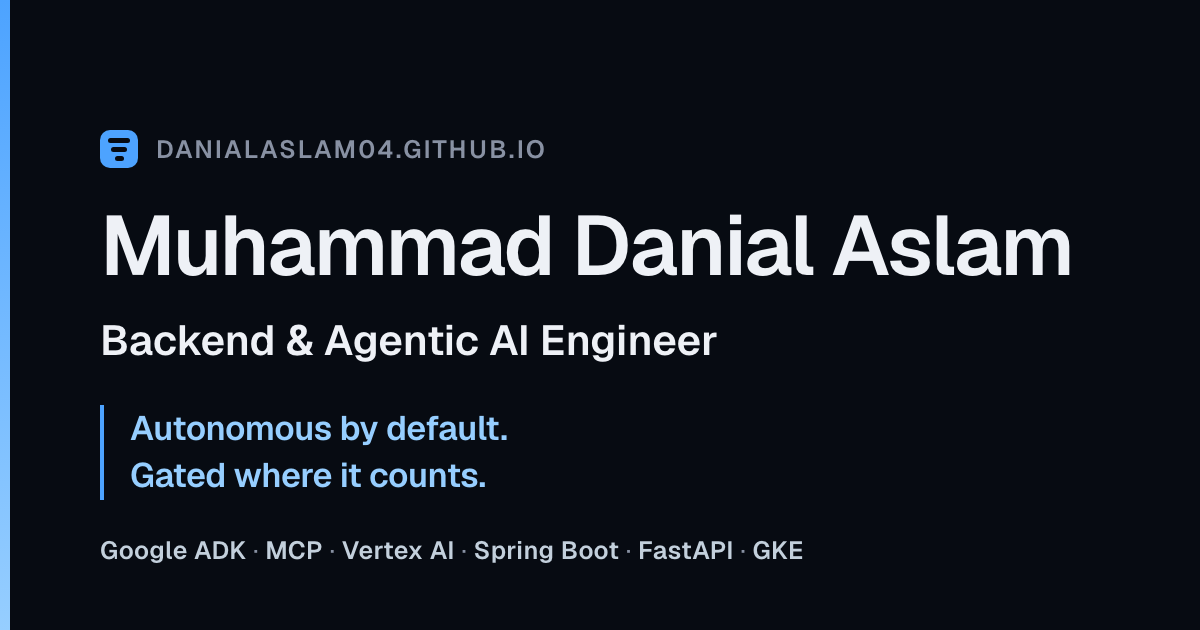
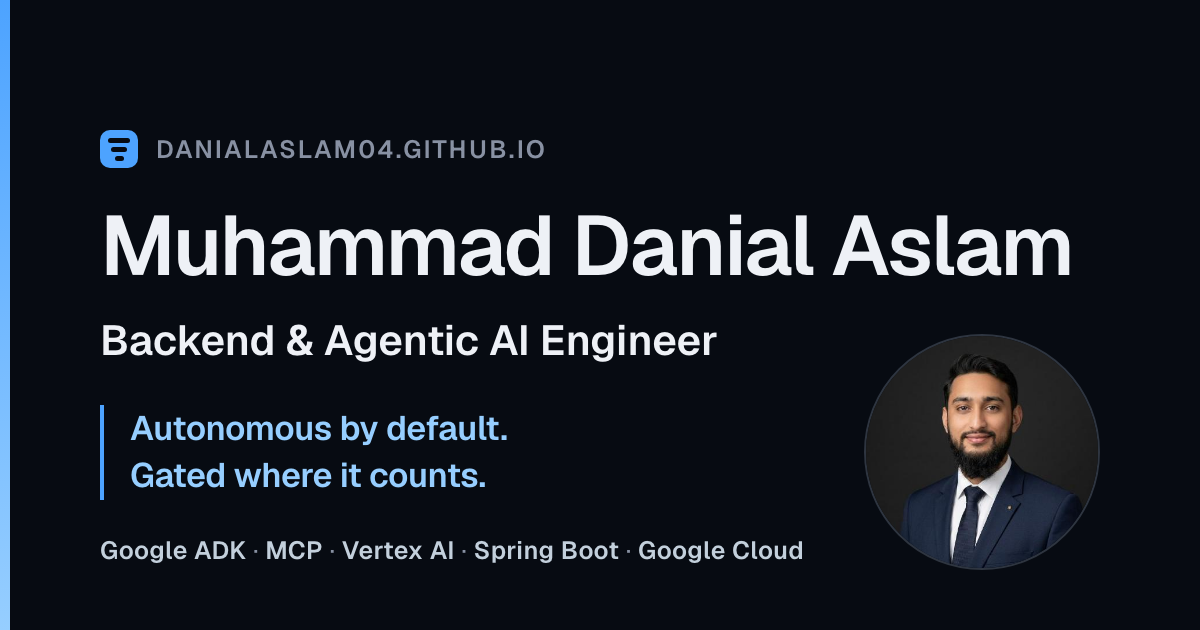
Launch: promote 97aadc9 to the root

Changed region(s): [[0.74, 0.5127, 0.925, 0.9048], [0.5242, 0.8444, 0.6783, 0.9048]]

diff --git a/assets/og-card.html b/assets/og-card.html
@@ -23,11 +23,33 @@
   both produce 1200x630, but the scaled route renders type at 2x and downsamples,
   which is visibly sharper.
 
-  Keep the output as PNG. The card is flat colour and text, which compresses
-  better losslessly than as JPEG, and JPEG rings around glyphs. Budget is
-  100 KB — re-check the figure after a type change rather than assuming it.
+  Keep the output as PNG, and write it at the SAME path. Platforms cache the
+  card by URL: an in-place update reaches every link already shared, while a
+  rename leaves those links with nothing. That is why this is still a .png
+  even though the card now contains a photograph.
 
-  Render over http rather than file:// so the @font-face below resolves.
+  Budget: 128 KB, re-derived 2026-10-04, was 100 KB. The old figure was set
+  when the card was flat colour and text; a photograph does not compress in
+  long runs and the honest cost of the face at 118px is about 117 KB. Holding
+  100 KB would have meant an 88px face, which reads as a token rather than a
+  person — the opposite of why the face was added. Re-check this figure after
+  any change that alters what KIND of content is on the card, not merely its
+  type sizes.
+
+  Two things the encode depends on, both measured rather than assumed:
+  write colorType 2 with deflateLevel 9 and deflateStrategy 1. The screenshot
+  comes back RGBA and the card is fully opaque, so dropping the alpha channel
+  is lossless and saves about 13 KB; strategy 1 beats the default, and
+  strategy 2 is catastrophic here (387 KB).
+
+  JPEG was tested rather than dismissed: q92 is 85 KB with the full-size face
+  and its ringing measures 16/255 maximum on 0.41% of pixels in the headline
+  band, which is invisible. It is a legitimate option and the only reason it
+  is not used is the URL-cache argument above.
+
+  Render over http rather than file:// so the @font-face below resolves. The
+  photo is a sibling file now, so http is doubly required: over file:// the
+  font silently falls back AND the face may not load at all.
 
   Colours are the site's dark-theme tokens from styles.css. If those change,
   change them here too — nothing links the two automatically.
@@ -140,16 +162,42 @@
     line-height: 1.4;
   }
 
+  /* max-width is a guard, not a layout: the face occupies the bottom-right
+     corner, so a stack line long enough to run under it would collide. Six
+     entries did, by 27px. Five clear it. If this list grows, check the gap
+     rather than trusting that it still fits. */
   .stack {
     position: absolute;
     left: 50px;
     bottom: 32px;
+    max-width: 360px;
     font-size: 12.5px;
     color: var(--muted);
     letter-spacing: .015em;
   }
   .stack b { color: #C3D0DC; font-weight: 600; }
   h1 { font-weight: 600; }
+
+  /* The face sits bottom-right, below the headline's band, because a
+     one-line 42px name and a right-hand photo cannot both fit across 600px:
+     the name alone inks about 430px, leaving under 170px of column. Rather
+     than shrink the name or wrap it, the circle takes the corner the stack
+     line leaves empty. Measured clear of the h1, not assumed.
+
+     118px here is 236 device px at deviceScaleFactor 2, against a 400x400
+     source — inside native, same budget rule as the hero. A circle for the
+     same reason as the hero too, though the card is always dark so it is
+     consistency rather than necessity. */
+  .face {
+    position: absolute;
+    right: 50px;
+    bottom: 30px;
+    width: 118px;
+    height: 118px;
+    border-radius: 50%;
+    object-fit: cover;
+    border: 1px solid rgba(148,163,184,.28);
+  }
 </style>
 </head>
 <body>
@@ -164,6 +212,8 @@
   <p class="role">Backend &amp; Agentic AI Engineer</p>
   <p class="tagline">Autonomous by default.<br/>Gated where it counts.</p>
 
-  <p class="stack"><b>Google ADK</b> · <b>MCP</b> · <b>Vertex AI</b> · <b>Spring Boot</b> · <b>FastAPI</b> · <b>GKE</b></p>
+  <img class="face" src="danial-aslam.jpg" alt=""/>
+
+  <p class="stack"><b>Google ADK</b> · <b>MCP</b> · <b>Vertex AI</b> · <b>Spring Boot</b> · <b>Google Cloud</b></p>
 </body>
 </html>

diff --git a/index.html b/index.html
@@ -109,8 +109,8 @@
           <li><b>3</b><span>years shipping to clients</span></li>
         </ul>
         <ul class="caps">
-          <li><p class="cap-t">Agentic AI systems</p><p class="cap-d">Google ADK, MCP, multi-agent orchestration, Vertex AI</p></li>
           <li><p class="cap-t">Backend &amp; integrations</p><p class="cap-d">Java/Spring Boot, Python/FastAPI, Stripe, Plaid, Gusto, Checkr</p></li>
+          <li><p class="cap-t">Agentic AI systems</p><p class="cap-d">Google ADK, MCP, multi-agent orchestration, Vertex AI</p></li>
           <li><p class="cap-t">Production delivery</p><p class="cap-d">Requirements through deployment, direct client engagement</p></li>
         </ul>
       </aside>
@@ -125,7 +125,7 @@
        which reads as thin and was actually repetition. -->
   <section id="work" class="wrap sec-lg" aria-labelledby="work-h">
     <p class="sec-mark"><i aria-hidden="true">01</i><span>Work</span></p>
-    <h2 id="work-h" class="rv"><span>I established the agent-execution pattern all three run on.</span></h2>
+    <h2 id="work-h" class="rv"><span>I built all three backends, and established the agent-execution pattern they run on.</span></h2>
 
     <div class="work-view">
       <ol class="work-track">
@@ -136,8 +136,8 @@
               <p class="panel-pull rv"><span>Email in. Loads out. No human in the flow.</span></p>
             </div>
             <div class="panel-detail">
-              <p class="panel-own">I developed the backend services and the LLM ingestion pipeline.</p>
-              <p class="panel-desc">Freight orders arrive as email; the pipeline extracts and validates the structured data, runs credit checks, and creates the load.</p>
+              <p class="panel-own">I developed the backend services, and the LLM pipeline that feeds them.</p>
+              <p class="panel-desc">A multi-tenant TMS running the order-to-delivery lifecycle. Extraction, validation and credit checks all happen before a load exists.</p>
             </div>
           </div>
         </li>
@@ -145,11 +145,11 @@
           <div class="panel-in">
             <div class="panel-claim">
               <p class="panel-k"><i aria-hidden="true">02</i>Business-Acquisition Marketplace<em>Business brokerage</em></p>
-              <p class="panel-pull rv"><span>Five agents. Three roles — buyers, brokers, administrators — each seeing a different slice.</span></p>
+              <p class="panel-pull rv"><span>Three roles, three different views. Stripe for billing, Plaid for verification.</span></p>
             </div>
             <div class="panel-detail">
               <p class="panel-own">I designed and built the domain backend and the agentic service beside it.</p>
-              <p class="panel-desc">Spring Boot for the domain, Python/FastAPI for the agents.</p>
+              <p class="panel-desc">A Spring Boot domain under five ADK agents in Python/FastAPI. Each role gets its own filtered toolset.</p>
             </div>
           </div>
         </li>
@@ -157,10 +157,10 @@
           <div class="panel-in">
             <div class="panel-claim">
               <p class="panel-k"><i aria-hidden="true">03</i>Concierge Care Platform<em>Healthcare</em></p>
-              <p class="panel-pull rv"><span>An onboarding agent, a task-planning agent, and a care-team matching engine.</span></p>
+              <p class="panel-pull rv"><span>Vetted by Checkr, paid through Gusto, planned by an agent.</span></p>
             </div>
             <div class="panel-detail">
-              <p class="panel-own">I built all three, and the backend under them.</p>
+              <p class="panel-own">I built the backend, both agents and the matching engine.</p>
               <p class="panel-desc">Connects aging-adult clients with field staff. A different control pattern: the planning agent runs autonomously and a coordinator reviews the plan afterwards.</p>
             </div>
           </div>
